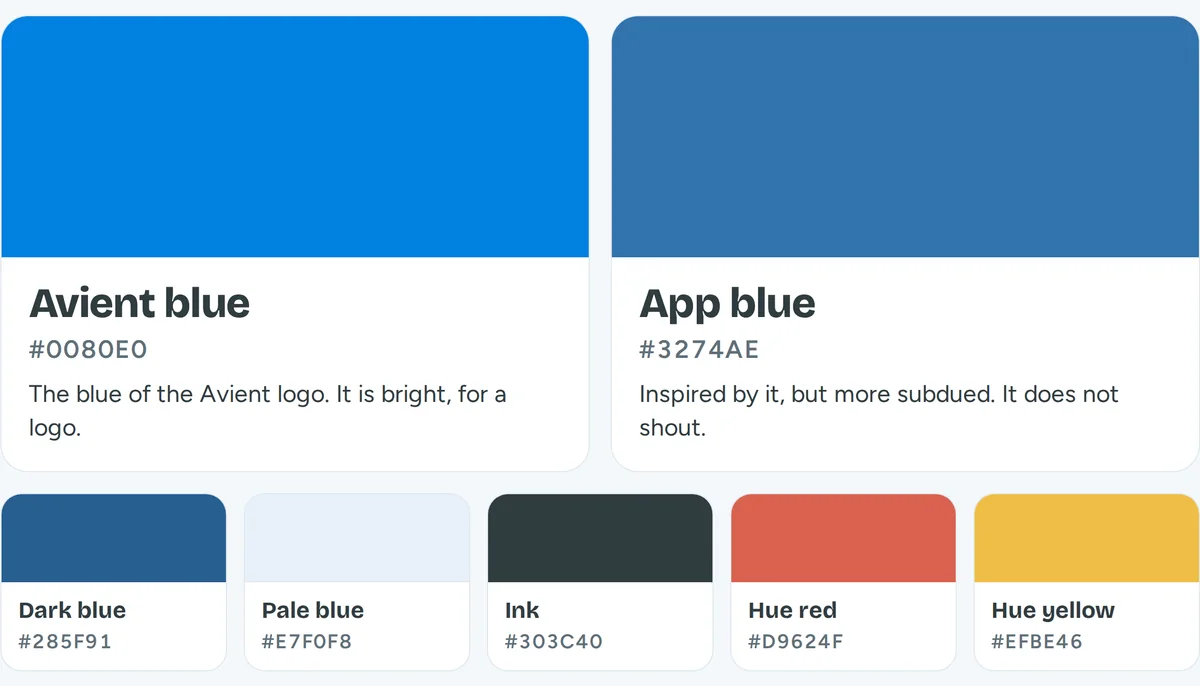
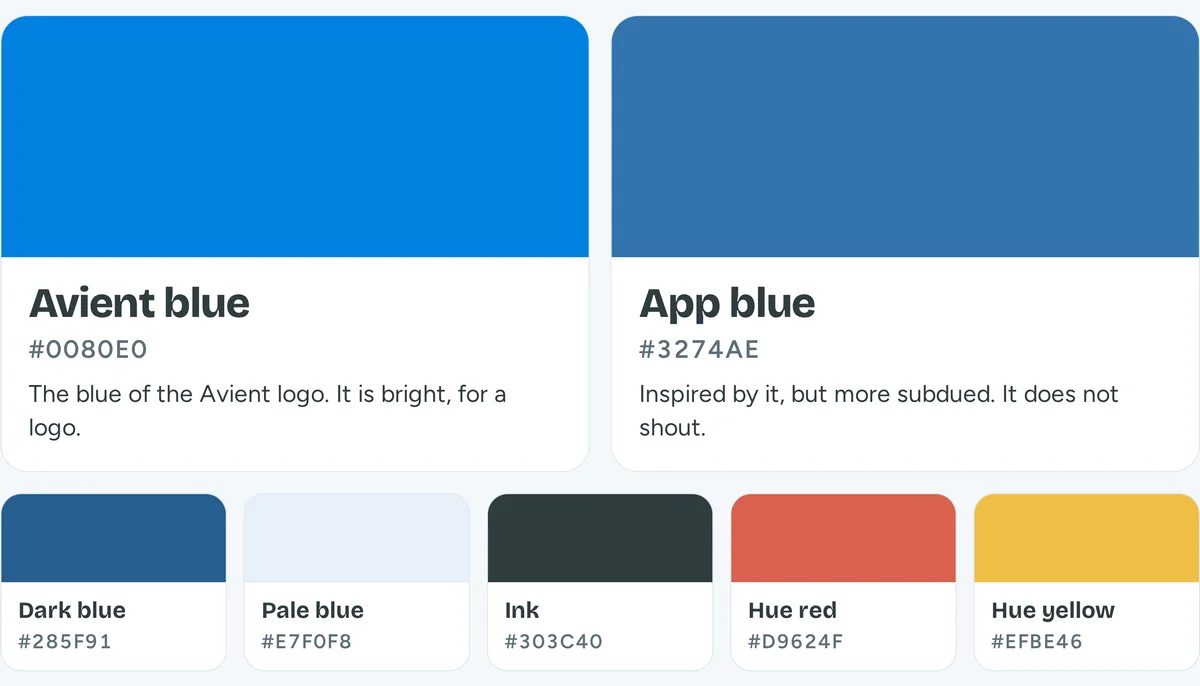
Deck: the page turns like a page of a book. Link page: weather pictures with round corners
Presentation mode: to go on, the page turns away to the left. To go back, the page before turns in from the left.
With less motion set on the device, the slide changes with no turn.
Link page: the two weather panels have clear corners, so no sharp edge shows.

Claude-Session: https://claude.ai/code/session_01VntYmmsz4Ly3rc1ciyMUdV

diff --git a/links/index.html b/links/index.html
@@ -44,7 +44,7 @@
 .media.wx{gap:18px}
 .media.wx figure.plain img{background:none;border-radius:0;box-shadow:none;border:0}
 .media.wx .two{gap:clamp(10px,2vw,20px)}
-.media.wx .two img{aspect-ratio:auto;object-fit:contain;box-shadow:none;filter:drop-shadow(0 8px 18px rgba(48,60,64,.14))}
+.media.wx .two img{aspect-ratio:auto;object-fit:contain;box-shadow:none;background:none;border-radius:0;filter:drop-shadow(0 6px 14px rgba(48,60,64,.16))}
 /* 3 pictures: one tall, two wide */
 .media.trio{grid-template-columns:5fr 7fr;align-items:center}
 .media.trio .col{display:grid;gap:12px}
@@ -78,7 +78,7 @@
 <div class="wrap spreads"><section class="sp" id="prototype" aria-label="Try the prototype"><div class="txt"><p class="n" aria-hidden="true">01</p><h2><a href="../prototype/">Try the prototype</a></h2><p class="tease">It works on this phone. Tap the round button and talk, type, write or take a photo. Hue fills in the fields. You check them and save. 100 sample customers are inside.</p><a class="btn p" href="../prototype/">Open the prototype<svg viewBox="0 0 24 24" aria-hidden="true"><path d="M5 12h14M13 6l6 6-6 6"/></svg></a></div><a class="media five" href="../prototype/" tabindex="-1" aria-hidden="true"><figure class="ph big"><img src="../assets/links/proto-home.webp" alt="Home on a phone: the weather for the visits, the sales bar at 68 percent, and Today." width="520" height="1044" loading="lazy"><figcaption>Home: is he on track today?</figcaption></figure><figure class="ph"><img src="../assets/links/proto-talkdone.webp" alt="Talk a note on a phone: the words that he says, and five ticks for the parts of a good note." width="380" height="763" loading="lazy"><figcaption>Talk a note.</figcaption></figure><figure class="ph"><img src="../assets/links/proto-check.webp" alt="Check and save on a phone: Hue filled in 6 fields from your voice note. Check each field, then save." width="380" height="763" loading="lazy"><figcaption>Check, then save.</figcaption></figure><figure class="ph"><img src="../assets/links/proto-why.webp" alt="A phone with a warning for Tuas Textile Print: no reply for 16 days, with the reason." width="380" height="763" loading="lazy"><figcaption>No reply, with the reason.</figcaption></figure><figure class="ph"><img src="../assets/links/proto-late.webp" alt="A phone with a late payment of Kian Seng Trading: the reason, and a plan with three payments." width="380" height="763" loading="lazy"><figcaption>A late payment, with a plan.</figcaption></figure></a></section>
 <section class="sp r" id="deck" aria-label="Presentation deck"><div class="txt"><p class="n" aria-hidden="true">02</p><h2><a href="../deck/">Presentation deck</a></h2><p class="tease">The full story in 32 slides. Who Daniel is. What goes wrong in his week. How 23 ideas became one assistant. Why each screen is built the way it is. With a full screen mode and my speaker notes.</p><a class="btn p" href="../deck/">Open the deck<svg viewBox="0 0 24 24" aria-hidden="true"><path d="M5 12h14M13 6l6 6-6 6"/></svg></a></div><a class="media three" href="../deck/" tabindex="-1" aria-hidden="true"><figure class="main page"><img src="../assets/links/deck-cover.webp" alt="The first slide: Hue. You sell. Hue keeps track. A light customer relationship management tool for Avient Specialty Inks sales reps." width="1200" height="675" loading="lazy"><figcaption>Slide 1.</figcaption></figure><div class="two"><figure class="page"><img src="../assets/links/deck-problem.webp" alt="A blue slide with the problem: Daniel must record what customers say, quickly and correctly. Then he must do many tasks, small and large, each at the right time." width="720" height="405" loading="lazy"><figcaption>The problem.</figcaption></figure><figure class="page"><img src="../assets/links/deck-points.webp" alt="A slide: This rule puts the most important follow up first." width="720" height="405" loading="lazy"><figcaption>The order of the follow ups.</figcaption></figure></div></a></section>
 <section class="sp" id="film" aria-label="Watch the film"><div class="txt"><p class="n" aria-hidden="true">03</p><h2><a href="../film/">Watch the film</a></h2><p class="tease">One work day of Daniel, with Hue, in 90 seconds. The weather for his visits. A note in seconds. A customer that does not reply. Each screen in the film is the real prototype.</p><a class="btn p" href="../film/">Play the film<svg viewBox="0 0 24 24" aria-hidden="true"><path d="M5 12h14M13 6l6 6-6 6"/></svg></a></div><a class="media one" href="../film/" tabindex="-1" aria-hidden="true"><figure class="main film"><img src="../assets/links/film-1.webp" alt="The first picture of the film: the name Hue, the words You sell. Hue keeps track, a clip of Daniel, and a phone with the full Home screen." width="1280" height="720" loading="lazy"><span class="play" aria-hidden="true"><svg viewBox="0 0 24 24"><path d="M9 6.5v11l9-5.500z"/></svg></span><figcaption>90 seconds, with sound.</figcaption></figure></a></section>
-<section class="sp r" id="system" aria-label="Hue Design System"><div class="txt"><p class="n" aria-hidden="true">04</p><h2><a href="../design-system/">Hue Design System</a></h2><p class="tease">A blue that is inspired by the Avient blue, but more subdued, so Daniel can focus on his work. The parts, live on the page. The words that Hue uses.</p><a class="btn p" href="../design-system/">Open the design system<svg viewBox="0 0 24 24" aria-hidden="true"><path d="M5 12h14M13 6l6 6-6 6"/></svg></a></div><a class="media wx" href="../design-system/" tabindex="-1" aria-hidden="true"><figure class="plain"><img src="../assets/links/ds-colours.webp" alt="Colour cards. Avient blue, #0080E0. App blue, #3274AE: inspired by it, but more subdued. Below them: dark blue, pale blue, ink, Hue red and Hue yellow." width="1200" height="686" loading="lazy"><figcaption>The app blue is more subdued than the Avient blue.</figcaption></figure><div class="two"><figure class="plain"><img src="../assets/links/ds-wx-sun.webp" alt="The weather panel in the morning sun, in yellow: Good morning, Daniel. Storms at 3 pm, when you visit Tuas Textile Print. Leave 15 minutes early." width="515" height="305" loading="lazy"><figcaption>The weather panel in the sun.</figcaption></figure><figure class="plain"><img src="../assets/links/ds-wx-storm.webp" alt="The weather panel in a storm, in dark grey: Good afternoon, Daniel. The same sentence about the visit." width="515" height="305" loading="lazy"><figcaption>The same panel in a storm.</figcaption></figure></div></a></section>
+<section class="sp r" id="system" aria-label="Hue Design System"><div class="txt"><p class="n" aria-hidden="true">04</p><h2><a href="../design-system/">Hue Design System</a></h2><p class="tease">A blue that is inspired by the Avient blue, but more subdued, so Daniel can focus on his work. The parts, live on the page. The words that Hue uses.</p><a class="btn p" href="../design-system/">Open the design system<svg viewBox="0 0 24 24" aria-hidden="true"><path d="M5 12h14M13 6l6 6-6 6"/></svg></a></div><a class="media wx" href="../design-system/" tabindex="-1" aria-hidden="true"><figure class="plain"><img src="../assets/links/ds-colours.webp" alt="Colour cards. Avient blue, #0080E0. App blue, #3274AE: inspired by it, but more subdued. Below them: dark blue, pale blue, ink, Hue red and Hue yellow." width="1200" height="686" loading="lazy"><figcaption>The app blue is more subdued than the Avient blue.</figcaption></figure><div class="two"><figure class="plain"><img src="../assets/links/ds-wx-sun.webp" alt="The weather panel in the morning sun, in yellow: Good morning, Daniel. Storms at 3 pm, when you visit Tuas Textile Print. Leave 15 minutes early." width="600" height="346" loading="lazy"><figcaption>The weather panel in the sun.</figcaption></figure><figure class="plain"><img src="../assets/links/ds-wx-storm.webp" alt="The weather panel in a storm, in dark grey: Good afternoon, Daniel. The same sentence about the visit." width="600" height="346" loading="lazy"><figcaption>The same panel in a storm.</figcaption></figure></div></a></section>
 <section class="sp" id="guide" aria-label="How Hue Works"><div class="txt"><p class="n" aria-hidden="true">05</p><h2><a href="../guide/">How Hue Works</a></h2><p class="tease">Each screen, in three columns: what Daniel sees, what it does for him, and how Hue knows. With the rule that puts the most important follow up first.</p><a class="btn p" href="../guide/">Open the guide<svg viewBox="0 0 24 24" aria-hidden="true"><path d="M5 12h14M13 6l6 6-6 6"/></svg></a></div><a class="media trio" href="../guide/" tabindex="-1" aria-hidden="true"><figure class="page"><img src="../assets/links/guide-attn.webp" alt="A phone with a sheet for Tuas Textile Print: No reply for 16 days, why Hue flagged this, and four ways to act." width="508" height="1006" loading="lazy"><figcaption>What Hue does when a customer does not reply.</figcaption></figure><div class="col"><figure class="page"><img src="../assets/links/guide-flow.webp" alt="A diagram: Daniel records a note. Hue reads the note. Daniel checks and saves. The customer record. Then the parts of Home read the record." width="1000" height="749" loading="lazy"><figcaption>One note goes to all screens.</figcaption></figure><figure class="page"><img src="../assets/links/guide-table.webp" alt="A table: the first follow ups of the sample day, each with the reason that Daniel reads and how the points add up." width="900" height="465" loading="lazy"><figcaption>The reason for each follow up.</figcaption></figure></div></a></section>
 <section class="sp r" id="code" aria-label="The code"><div class="txt"><p class="n" aria-hidden="true">06</p><h2><a href="https://github.com/sayhien/avient-sales-rep-tool">The code</a></h2><p class="tease">The prototype is one file. It works from a folder, with no internet, on a phone, a tablet and a computer. The rule that puts the most important follow up first is a few lines.</p><a class="btn p" href="https://github.com/sayhien/avient-sales-rep-tool">Open the code on GitHub<svg viewBox="0 0 24 24" aria-hidden="true"><path d="M5 12h14M13 6l6 6-6 6"/></svg></a></div><a class="media pair" href="https://github.com/sayhien/avient-sales-rep-tool" tabindex="-1" aria-hidden="true"><figure class="code"><img src="../assets/links/code-rule.webp" alt="A card with code from the prototype: the function that gives points to each follow up." width="1200" height="520" loading="lazy"><figcaption>The rule for the order, from the real file.</figcaption></figure><figure class="dev"><img src="../assets/links/code-devices.webp" alt="Hue on a computer, a tablet and a phone." width="1100" height="632" loading="lazy"><figcaption>One file, three devices.</figcaption></figure></a></section></div>
 

diff --git a/deck/index.html b/deck/index.html
@@ -29,10 +29,19 @@ body.notes .note{display:block}
 body.show{overflow:hidden}
 #show{position:fixed;inset:0;z-index:100;background:#000;display:flex;flex-direction:column;align-items:center;justify-content:center}
 #show[hidden]{display:none}
-.stage{position:relative;flex:1;width:100%;min-height:0}
-.stage .sl{left:50%;top:50%;transform:translate(-50%,-50%) scale(var(--k,.5));transform-origin:50% 50%;box-shadow:0 0 0 1px #111}
-.stage .sl.in{animation:turn .28s ease-out}
-@keyframes turn{from{opacity:0;transform:translate(calc(-50% + var(--dx,24px)),-50%) scale(var(--k,.5))}to{opacity:1}}
+.stage{position:relative;flex:1;width:100%;min-height:0;display:grid;place-items:center;perspective:2600px;overflow:hidden}
+/* a page holds one slide. To go on, the page turns away to the left, like a page of a book. To go back, the page before turns in from the left */
+.pg{grid-area:1/1;position:relative;overflow:hidden;background:#F4F8FB;box-shadow:0 0 0 1px #111;transform-origin:0 50%;backface-visibility:hidden;-webkit-backface-visibility:hidden}
+.pg:after{content:"";position:absolute;inset:0;pointer-events:none;opacity:0;background:linear-gradient(90deg,rgba(0,0,0,.04),rgba(0,0,0,.5))}
+.pg.out{z-index:2;animation:pgturn .62s cubic-bezier(.5,.05,.35,1) forwards;box-shadow:30px 0 60px rgba(0,0,0,.45)}
+.pg.in{z-index:2;animation:pgturn .62s cubic-bezier(.3,.55,.3,1) reverse both;box-shadow:30px 0 60px rgba(0,0,0,.45)}
+.pg.out:after{animation:pgshade .62s ease-in forwards}
+.pg.in:after{animation:pgshade .62s ease-out reverse both}
+.pg.under:after{background:#000;animation:pgdim .62s ease-out both}
+.pg.under.rev:after{animation-direction:reverse}
+@keyframes pgturn{to{transform:rotateY(-104deg)}}
+@keyframes pgshade{to{opacity:1}}
+@keyframes pgdim{from{opacity:.4}to{opacity:0}}
 .pnote{width:100%;max-height:26vh;overflow:auto;background:#12171A;color:#EEF3F6;border-top:1px solid #2A3238;padding:14px clamp(16px,5vw,72px) 76px;font:500 clamp(16px,1.5vw,21px)/1.55 var(--fb)}
 .pnote[hidden]{display:none}
 .ctl{position:absolute;left:50%;bottom:14px;transform:translateX(-50%);display:flex;align-items:center;gap:4px;background:rgba(24,30,34,.86);border:1px solid rgba(255,255,255,.16);border-radius:99px;padding:6px 8px;color:#fff;transition:opacity .25s;backdrop-filter:blur(8px)}
@@ -1993,7 +2002,12 @@ body.show{overflow:hidden}
       show=document.getElementById('show'), stage=document.getElementById('stage'), pnote=document.getElementById('pnote'), count=document.getElementById('count'),
       prev=document.getElementById('prev'), next=document.getElementById('next'), bnote=document.getElementById('bnote'), bsnd=document.getElementById('bsnd'),
       on=false, cur=-1, sound=true, idle=0, last=null;
-  function size(){ var k=Math.min(stage.clientWidth/1920, stage.clientHeight/1080); if(cur>=0) sls[cur].style.setProperty('--k', k) }
+  var curP=null, busy=null, still=matchMedia('(prefers-reduced-motion: reduce)');
+  function size(){ var k=Math.min(stage.clientWidth/1920, stage.clientHeight/1080);
+    [].forEach.call(stage.querySelectorAll('.pg'), function(p){ p.style.width=(1920*k)+'px'; p.style.height=(1080*k)+'px'; var s=p.querySelector('.sl'); if(s) s.style.setProperty('--k', k) }) }
+  function mount(i){ var p=document.createElement('div'); p.className='pg'; p.appendChild(sls[i]); stage.appendChild(p); return p }
+  function unmount(p, i){ back(i); if(p&&p.parentNode) p.parentNode.removeChild(p) }
+  function settle(){ if(busy){ clearTimeout(busy.t); var d=busy.done; busy=null; d() } }
   /* the sound of a page: a short recording, stored with the site */
   var page=new Audio('../assets/media/page-flip.mp3'); page.preload='auto';
   function flip(){ if(!sound) return; try{ page.currentTime=0; var p=page.play(); if(p&&p.catch) p.catch(function(){}) }catch(e){} }
@@ -2005,17 +2019,26 @@ body.show{overflow:hidden}
   function back(i){ if(i<0) return; var s=sls[i]; s.classList.remove('in'); [].forEach.call(s.querySelectorAll('video'), function(v){ if(!v.muted) v.pause() }); var b=frs[i].querySelector('.box'); b.appendChild(s); s.style.setProperty('--k', b.clientWidth/1920); }
   function go(i, quiet){
     i=Math.max(0, Math.min(N-1, i)); if(i===cur) return;
-    var dir=i>cur?1:-1; back(cur); cur=i; var s=sls[i]; stage.appendChild(s); s.style.setProperty('--dx', (dir*28)+'px'); s.classList.add('in'); size();
+    settle();
+    var dir=i>cur?1:-1, old=cur, oldP=curP, p=mount(i); cur=i; curP=p; size();
+    if(old<0 || quiet || still.matches){ if(oldP) unmount(oldP, old) }
+    else {
+      /* forward: the old page is on top and turns away. Back: the new page is on top and turns in */
+      var top=dir>0?oldP:p, under=dir>0?p:oldP;
+      top.classList.add(dir>0?'out':'in'); under.classList.add('under'); if(dir<0) under.classList.add('rev');
+      busy={ done:function(){ top.classList.remove('out','in'); under.classList.remove('under','rev'); unmount(oldP, old) } };
+      busy.t=setTimeout(settle, 640);
+    }
     count.textContent=(i+1)+' / '+N; prev.disabled=i===0; next.disabled=i===N-1; pnote.textContent=notes[i]||'No notes for this slide.'; pnote.scrollTop=0;
     if(!quiet){ flip(); hintOff() }
   }
   function wake(){ show.classList.remove('idle'); clearTimeout(idle); if(matchMedia('(hover:hover)').matches) idle=setTimeout(function(){ show.classList.add('idle') }, 2600) }
   function open(i){
-    if(on) return; on=true; last=document.activeElement; document.body.classList.add('show'); show.hidden=false; cur=-1; go(i||0, true); hintOn(); document.getElementById('hintok').focus({preventScroll:true}); wake();
+    if(on) return; on=true; last=document.activeElement; document.body.classList.add('show'); show.hidden=false; cur=-1; curP=null; go(i||0, true); hintOn(); document.getElementById('hintok').focus({preventScroll:true}); wake();
     var el=document.documentElement, rf=el.requestFullscreen||el.webkitRequestFullscreen; if(rf){ try{ var p=rf.call(el); if(p&&p.catch) p.catch(function(){}) }catch(e){} }
   }
   function close(){
-    if(!on) return; on=false; hintOff(); var i=cur; back(cur); cur=-1; show.hidden=true; document.body.classList.remove('show'); fit();
+    if(!on) return; on=false; hintOff(); settle(); var i=cur; unmount(curP, cur); curP=null; cur=-1; show.hidden=true; document.body.classList.remove('show'); fit();
     if(document.fullscreenElement||document.webkitFullscreenElement){ (document.exitFullscreen||document.webkitExitFullscreen).call(document) }
     frs[i].scrollIntoView({block:'center'}); if(last&&last.focus) last.focus({preventScroll:true});
   }
